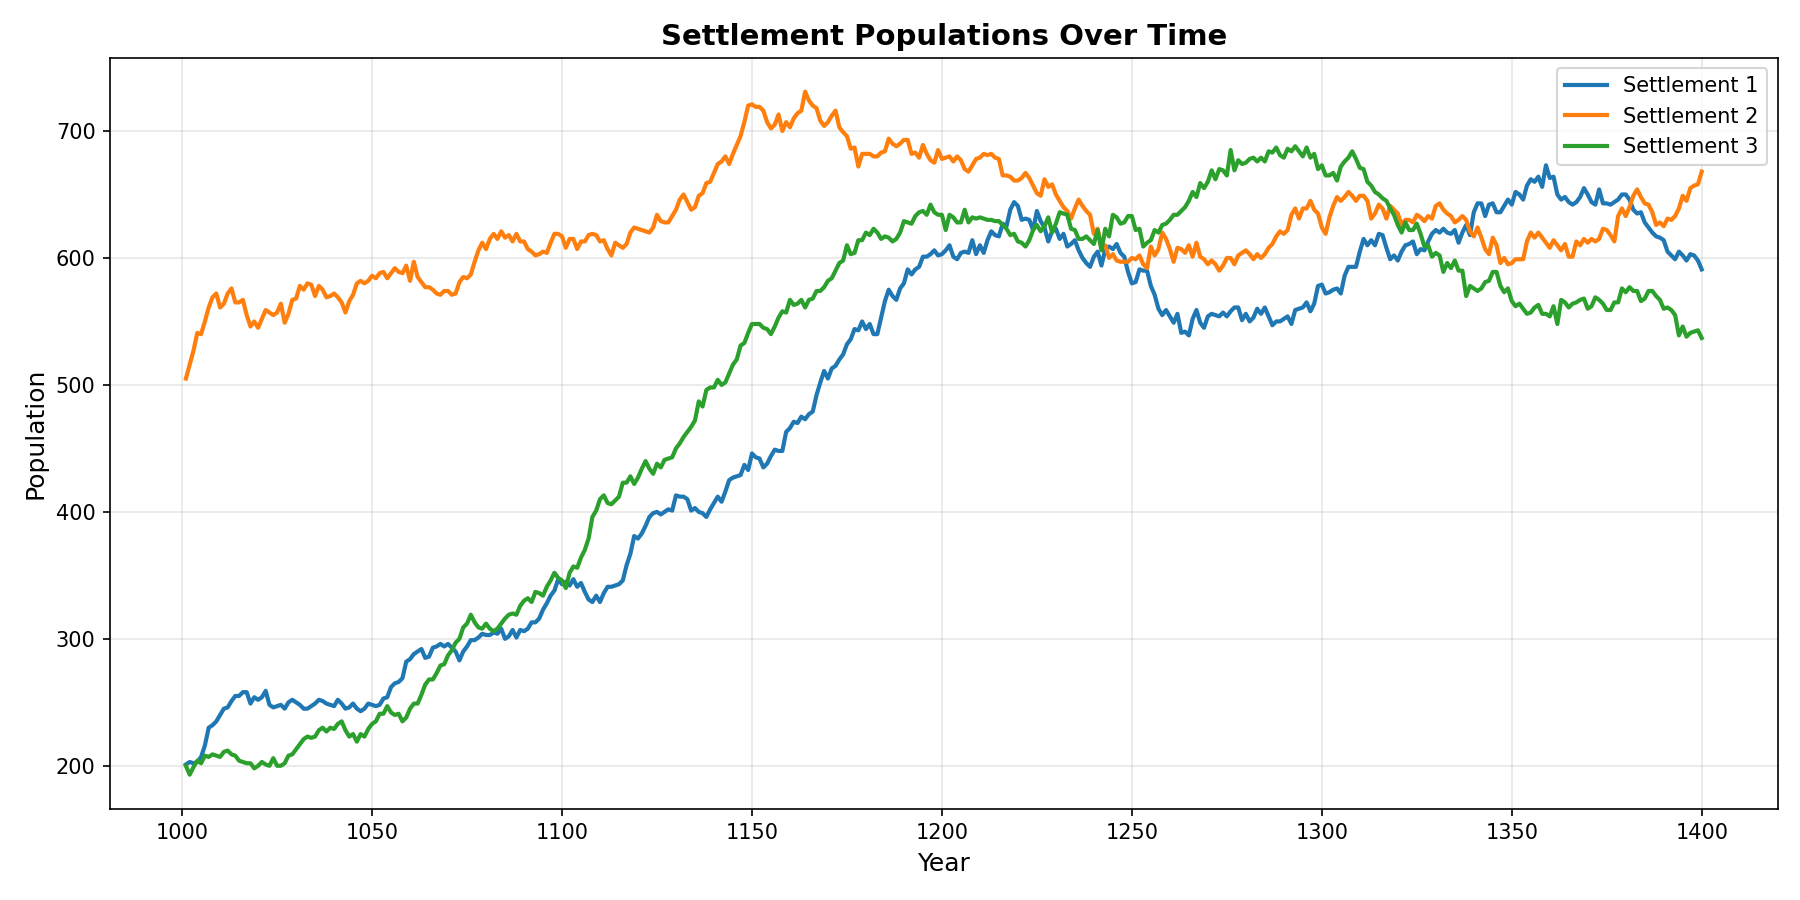
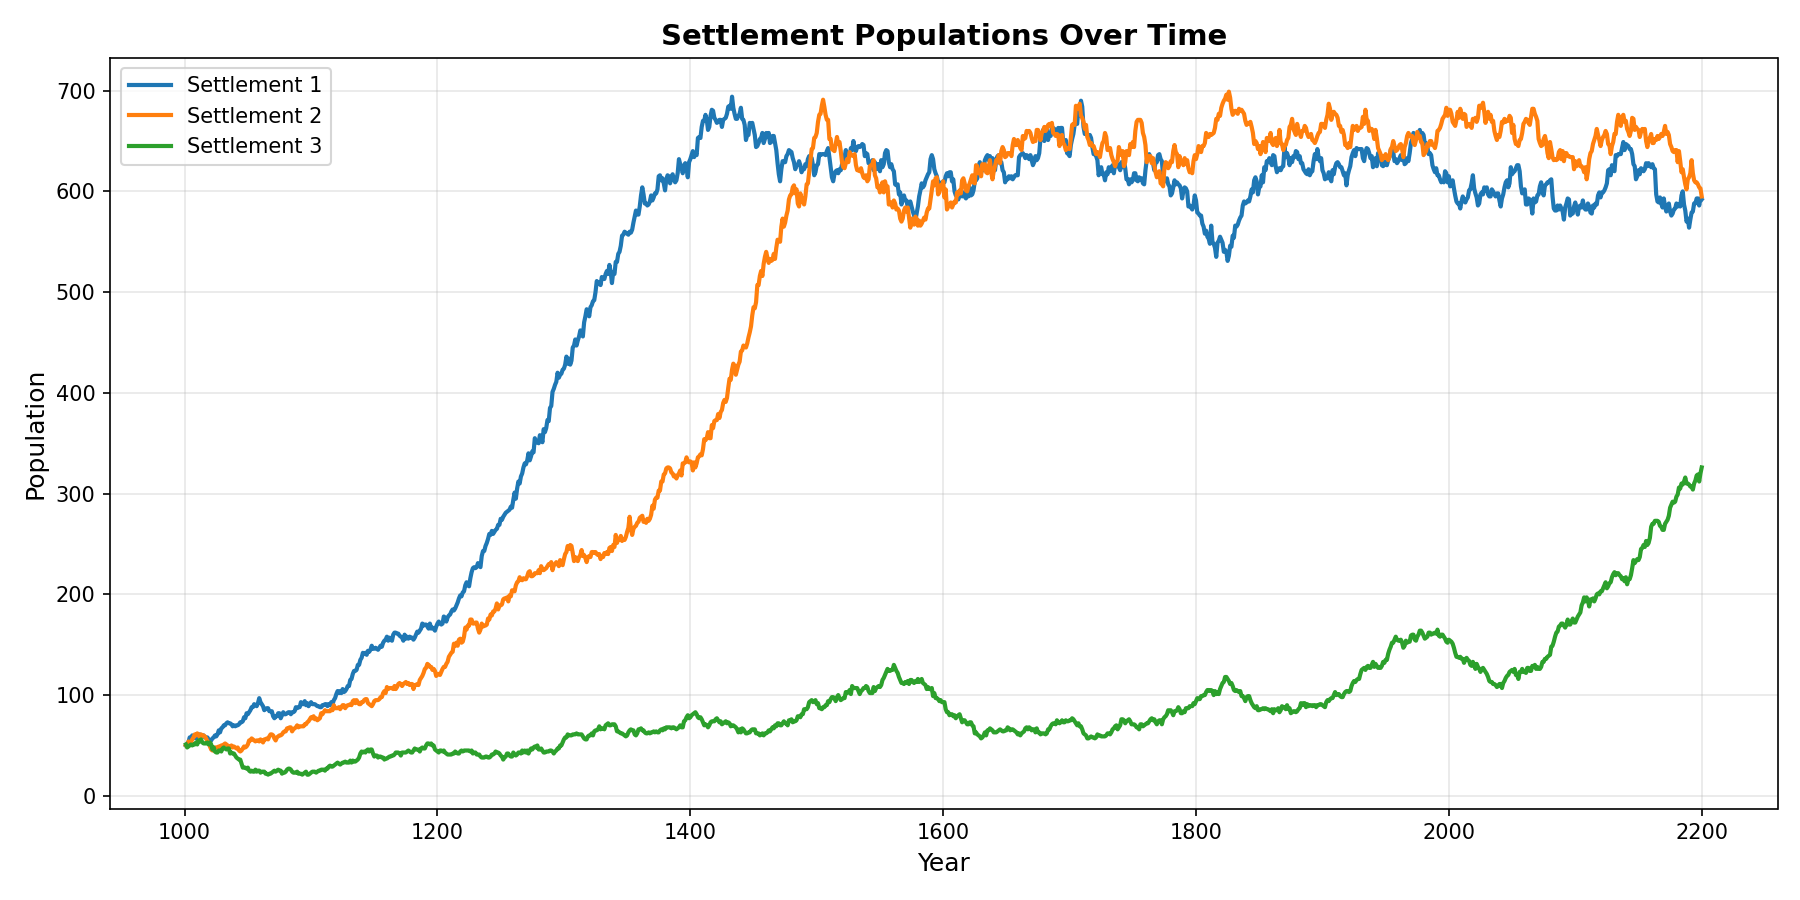
changes v 0.2.1.2

diff --git a/NewTest.py b/NewTest.py
@@ -480,7 +480,7 @@ def run_simulation(settlement_configs, status_text):
             'is_active'      : True,
         }
 
-    for i in range(1600):
+    for i in range(4800):
         sim.advance_all_settlements()
         if sim.total_seasons_passed % 4 == 0:
             monitor.take_snapshot()
